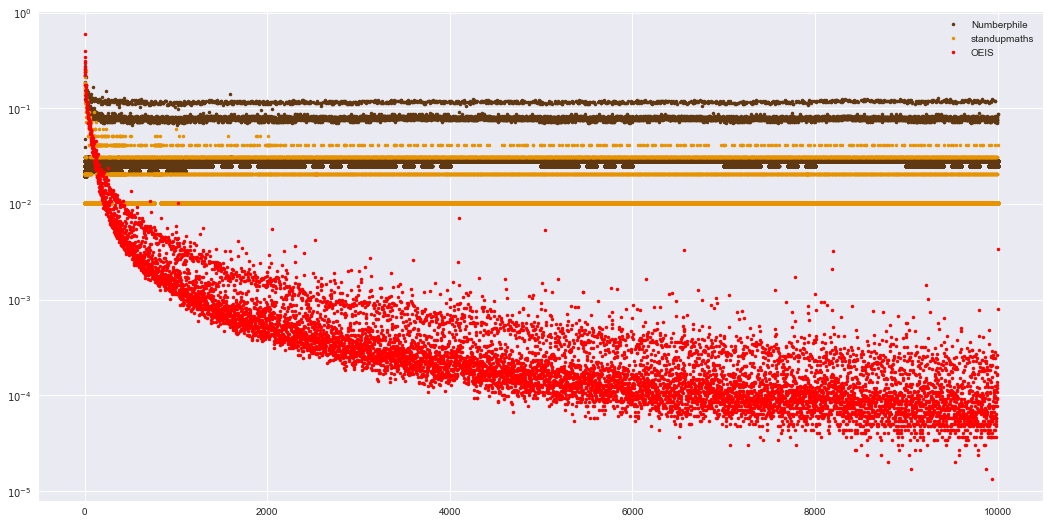
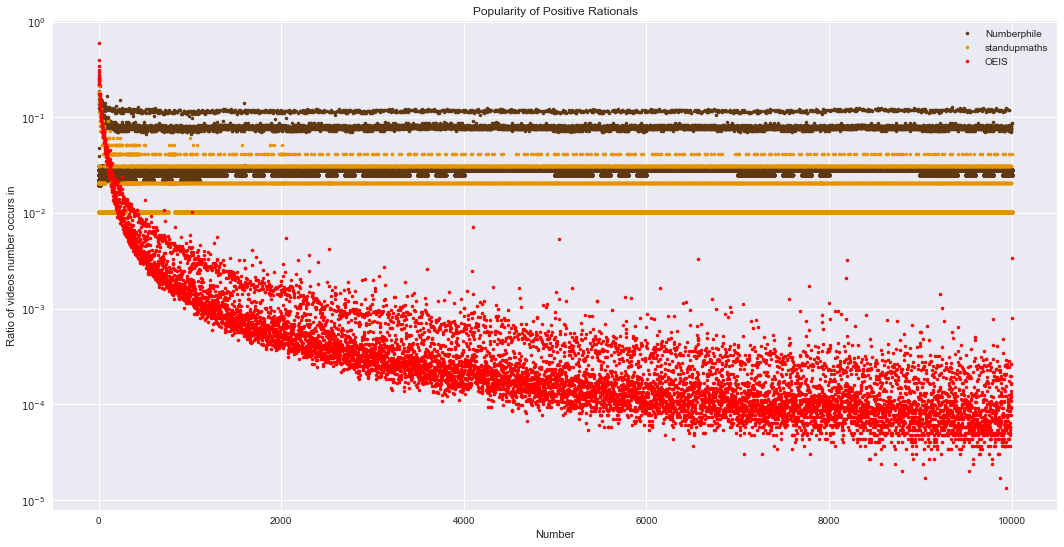
Clean up popular numbers post 1

diff --git a/_posts/2018-01-27-popular-01-oeis.md b/_posts/2018-01-27-popular-01-oeis.md
@@ -13,7 +13,7 @@ In this series, we're looking at the popularity of numbers in various online mat
 
 ## Loading Data
 
-Let's assume that the scripts from [https://github.com/lipschultz/diabicus/blob/gap-analysis/number-analysis/](https://github.com/lipschultz/diabicus/blob/gap-analysis/number-analysis/) have been used to save the data into a database.  Below, I load all the positive rational data.
+Let's assume that the scripts from [https://github.com/lipschultz/diabicus/blob/gap-analysis/number-analysis/](https://github.com/lipschultz/diabicus/blob/gap-analysis/number-analysis/) have been used to save the data into a database.  First I load all the positive rational data.
 
 
 ```python
@@ -31,7 +31,7 @@ df_positive_rational = pd.read_sql_query('''SELECT V.source, C.real_part AS numb
                                          conn)
 ```
 
-Each source has a different number of videos/sequences, from 98 with standupmaths to 296 522 with OEIS.  Brady, Matt: if you just increase your output to about 81 videos/day, you should be able to catch up in only 10 years -- get on it! (please)). In the meantime, I need to normalize by the number of videos/sequences, which the code below does (saving it in a new column named `pct`).
+Each source has a different number of videos/sequences, from 98 with standupmaths to 296 522 with OEIS.  Brady, Matt: if you just increase your output to about 81 videos/day, you should be able to catch up in only 10 years -- get on it! (please). In the meantime, I need to normalize by the number of videos/sequences, which the code below does (saving it in a new column named `pct`).
 
 
 ```python
@@ -62,6 +62,9 @@ for source, color in colors.items():
     plt.semilogy(d.number, d['pct'], marker='.', linestyle='', label=source, color=color)
 
 plt.legend()
+plt.xlabel('Number')
+plt.ylabel('Ratio of videos number occurs in')
+plt.title('Popularity of Positive Rationals')
 plt.show()
 ```
 
@@ -171,6 +174,9 @@ x_2 = [x for x in range(185, 500)]
 plt.semilogy(x_2, [threshold_curve2(x) for x in x_2], label='Threshold 2', c='green', marker='', linestyle='-', linewidth=3)
 plt.semilogy(oeis.number[1:], oeis.number[1:].apply(oeis_best_fit), label='Best fit', c='purple', marker='', linestyle='-', linewidth=3)
 plt.legend()
+plt.xlabel('Number')
+plt.ylabel('Ratio of videos number occurs in')
+plt.title('Classes of Popularity in OEIS Positive Integers')
 plt.show()
 ```
 
@@ -186,14 +192,14 @@ plt.show()
 
 Now that we've classified the numbers, let's find out who's in the popular class.
 
-Prior work by [Guglielmetti](https://www.drgoulu.com/2009/04/18/nombres-mineralises/) and [Gauvrit et al.](https://arxiv.org/abs/1101.4470) found that the popular positive integers tend belong to one or more of these sets:
-- _`primes`_: Prime numbers
-- _`powers`_: Numbers of the form a^b (for a,b ∈ **N**)
-- _`squares`_: Square numbers
-- _`2^n-1`_: Numbers one less than a power of 2
-- _`2^n+1`_: Numbers one more than a power of 2
-- _`highlyComposites`_: Guglielmetti defines this as having more divisors than any lower number (i.e. highly composite numbers, see [5040 and other Anti-Prime Numbers](https://www.youtube.com/watch?v=2JM2oImb9Qg))
-- _`manyPrimeFactors`_: Gauvrit et al. defines this as when "the number of prime factors (with their multiplicty) exceeds the 95th percentile, corresponding to the interval [n − 100, n + 100]"
+Prior work by [Guglielmetti](https://www.drgoulu.com/2009/04/18/nombres-mineralises/) and [Gauvrit et al.](https://arxiv.org/abs/1101.4470) found that the popular positive integers tend to belong to one or more of these sets:
+- _primes_: Prime numbers
+- _powers_: Numbers of the form a^b (for a,b ∈ **N**)
+- _squares_: Square numbers
+- _2^n-1_: Numbers one less than a power of 2
+- _2^n+1_: Numbers one more than a power of 2
+- _highlyComposites_: Guglielmetti defines this as having more divisors than any lower number (i.e. highly composite numbers, see [5040 and other Anti-Prime Numbers](https://www.youtube.com/watch?v=2JM2oImb9Qg))
+- _manyPrimeFactors_: Gauvrit et al. defines this as when "the number of prime factors (with their multiplicty) exceeds the 95th percentile, corresponding to the interval [n − 100, n + 100]"
 
 The code below tags each number for whether it belongs to one of those seven sets.  It also creates a new set that's the union of the sets above: _unionPriorWork_.
 
@@ -247,8 +253,8 @@ def tag_with_powers(df, max_num, *, do_power=True, do_square=True, do_power_2_le
 
     if do_power_2_plus_1:
         one_more_than_power_of_two = [n + 1 for n in powers_of_2]
-        df['is_2^n+1'] = df.number.apply(lambda n: n in one_more_than_power_of_two)
-        set_names.append('is_2^n+1')
+        df['2^n+1'] = df.number.apply(lambda n: n in one_more_than_power_of_two)
+        set_names.append('2^n+1')
 
     return set_names
 
@@ -328,7 +334,7 @@ def get_classification_metrics(df, true_label, pred_label):
 def get_classification_metrics_for_all_prediction_labels(df, true_label, pred_label_list):
     metrics = pd.DataFrame()
     for set_name in prior_work_set_names:
-        metrics = metrics.append(get_classification_metrics(oeis, true_label, set_name))
+        metrics = metrics.append(get_classification_metrics(df, true_label, set_name))
     return metrics
 
 def render_classification_metrics_table(metrics, for_class, sort_by='f1', do_not_color=['predictor', '# predicted']):
@@ -364,15 +370,15 @@ render_classification_metrics_table(oeis_class_metrics, True)
 <table><tr><th>predictor</th><th>precision</th><th>recall</th><th>f1</th><th># predicted</th></tr><tr><td style="text-align:center;">unionPriorWork</td><td style="text-align:center;background-color:#1616ff;color:white;">0.91</td><td style="text-align:center;background-color:#2f2fff;color:white;">0.79</td><td style="text-align:center;background-color:#2323ff;color:white;">0.84</td><td style="text-align:center;">1719</td></tr><tr><td style="text-align:center;">primes</td><td style="text-align:center;background-color:#0505ff;color:white;">0.98</td><td style="text-align:center;background-color:#5959ff;color:white;">0.61</td><td style="text-align:center;background-color:#3838ff;color:white;">0.75</td><td style="text-align:center;">1229</td></tr><tr><td style="text-align:center;">manyPrimeFactors</td><td style="text-align:center;background-color:#5050ff;color:white;">0.65</td><td style="text-align:center;background-color:#c9c9ff;">0.12</td><td style="text-align:center;background-color:#b6b6ff;">0.21</td><td style="text-align:center;">370</td></tr><tr><td style="text-align:center;">powers</td><td style="text-align:center;background-color:#0f0fff;color:white;">0.94</td><td style="text-align:center;background-color:#d7d7ff;">0.06</td><td style="text-align:center;background-color:#ccccff;">0.11</td><td style="text-align:center;">124</td></tr><tr><td style="text-align:center;">squares</td><td style="text-align:center;background-color:#0e0eff;color:white;">0.94</td><td style="text-align:center;background-color:#dadaff;">0.05</td><td style="text-align:center;background-color:#d0d0ff;">0.09</td><td style="text-align:center;">100</td></tr><tr><td style="text-align:center;">highlyComposites</td><td style="text-align:center;background-color:#0000ff;color:white;">1.00</td><td style="text-align:center;background-color:#e3e3ff;">0.01</td><td style="text-align:center;background-color:#e1e1ff;">0.02</td><td style="text-align:center;">18</td></tr><tr><td style="text-align:center;">2^n-1</td><td style="text-align:center;background-color:#0000ff;color:white;">1.00</td><td style="text-align:center;background-color:#e4e4ff;">0.01</td><td style="text-align:center;background-color:#e2e2ff;">0.01</td><td style="text-align:center;">13</td></tr><tr><td style="text-align:center;">is_2^n+1</td><td style="text-align:center;background-color:#1212ff;color:white;">0.92</td><td style="text-align:center;background-color:#e4e4ff;">0.01</td><td style="text-align:center;background-color:#e2e2ff;">0.01</td><td style="text-align:center;">13</td></tr></table>
 
 
-The table above shows various metrics for each set.  The table is sorted by f1 and the metrics cells are color-coded by how high their value is (white -> 0, blue -> 1).
+The table above shows various metrics for each set.  The table is sorted by f1 and the metrics cells are color-coded by how high their value is (white -> 0, blue -> 1) -- higher is better.
 
 We see that these sets generally have very good precision.  Only _manyPrimeFactors_ has a precision below 0.90, at 0.65.  This is consistent with the Sloane's Gap paper, where they also found very good precision for primes and squares, but poorer precision for having many prime factors.  However, the best precision comes from two sets the authors brushed over, _highlyComposite_ and _2^n-1_, with perfect precision.
 
 Unfortunately, the high precision generally comes at very low recall.  Most of these sets are small, generally being less than 20% the size of the set of popular numbers (earlier, we saw it was 1964).  Only _unionPriorWork_ and _primes_ have a recall over 0.50.  The authors of the Sloane's Gap paper also found _primes_ to have good recall.
 
-### The False Negative
+### The False Negatives
 
-Combined, these prior work sets include 1719 positive integers, 1556 of them (90.5%) are popular. Earlier, we saw that there are 1964 popular integers in OEIS; 79.2% of them are accounted for by these sets, leaving 408 unaccounted for -- the false negative.  What are these unaccounted-for popular numbers?
+Combined, these prior work sets include 1719 positive integers, 1556 of them (90.5%) are popular. Earlier, we saw that there are 1964 popular integers in OEIS; 79.2% of them are accounted for by these sets, leaving 408 unaccounted for -- the false negatives.  What are these unaccounted-for popular numbers?
 
 
 ```python
@@ -405,7 +411,7 @@ print(oeis_popular[oeis_popular.number.isin(three_repeat_digit)].number.values)
 
 Gauvrit et al. suggested that some of these are linked to decimal notation, offering the example that 1111, 2222, ..., 9999 are all in this unaccounted for set.  However, other than those nine numbers, none of them are obviously linked to decimal notation.  For example, of the three-digit version of that sequence, only 111 is in the unaccounted for set (it's also the only one in the popular set).
 
-The graph below shows where the unaccounted for popular numbers fall within the OEIS popularity graph.  It seems many of them occur for smaller numbers, before a clear gap begins to appear.  Point 2 (from the section on classifying popular numbers) is a good marker of where a gap just starts appearing -- recall that it's at x=185.  Of the 408 unaccounted for integers, 20.1% are below point 2.  Additionally, 52.9% of all popular integers below point 2 are unaccounted for.  Only 1.85% of all integers are below point 2.  Therefore, it seems being smaller is also an indicator for being popular.
+The graph below shows where the unaccounted for popular numbers fall within the OEIS popularity graph.  It seems many of them occur for smaller numbers, before a clear gap begins to appear.  Point 2 (from the section on classifying popular numbers) is a good marker of where a gap just starts appearing -- shown as an orange dashed line in the graph (x = 185).  Of the 408 unaccounted for integers, 20.1% are below point 2.  Additionally, 52.9% of all popular integers below point 2 are unaccounted for.  Only 1.85% of all integers are below point 2.  Therefore, it seems being smaller is also an indicator for being popular.
 
 
 ```python
@@ -413,6 +419,9 @@ plt.semilogy(oeis_popular_accounted.number, oeis_popular_accounted['pct'], c='#f
 plt.semilogy(oeis_regular.number, oeis_regular['pct'], c='#a0a0ff', marker='.', linestyle='', label='Unpopular')
 plt.semilogy(oeis_popular_unaccounted.number, oeis_popular_unaccounted['pct'], c='red', marker='.', linestyle='', label='Unaccounted For Popular')
 plt.legend()
+plt.xlabel('Number')
+plt.ylabel('Ratio of videos number occurs in')
+plt.title('False Negatives when Classifying the Populars in OEIS Positive Integers')
 plt.show()
 
 count_unaccounted_below_point2 = len([v for v in oeis_popular_unaccounted.number < point2.x if v])
@@ -447,6 +456,9 @@ plt.semilogy(oeis_popular.number, oeis_popular['pct'], c='#ffa0a0', marker='.', 
 plt.semilogy(oeis_regular.number, oeis_regular['pct'], c='#a0a0ff', marker='.', linestyle='', label='Unpopular')
 plt.semilogy(oeis_false_positive.number, oeis_false_positive['pct'], c='blue', marker='.', linestyle='', label='False Positives')
 plt.legend()
+plt.xlabel('Number')
+plt.ylabel('Ratio of videos number occurs in')
+plt.title('False Positives when Classifying the Populars in OEIS Positive Integers')
 plt.show()
 ```
 
